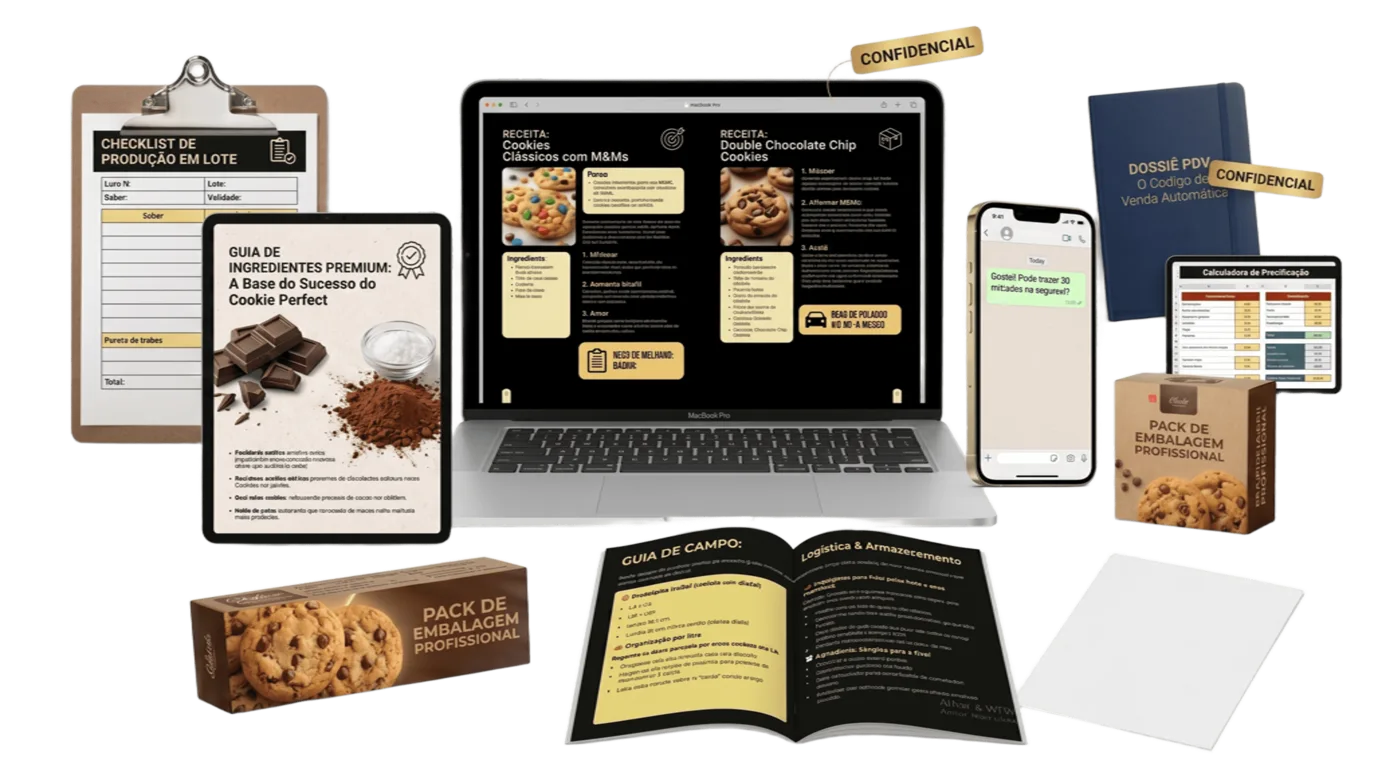
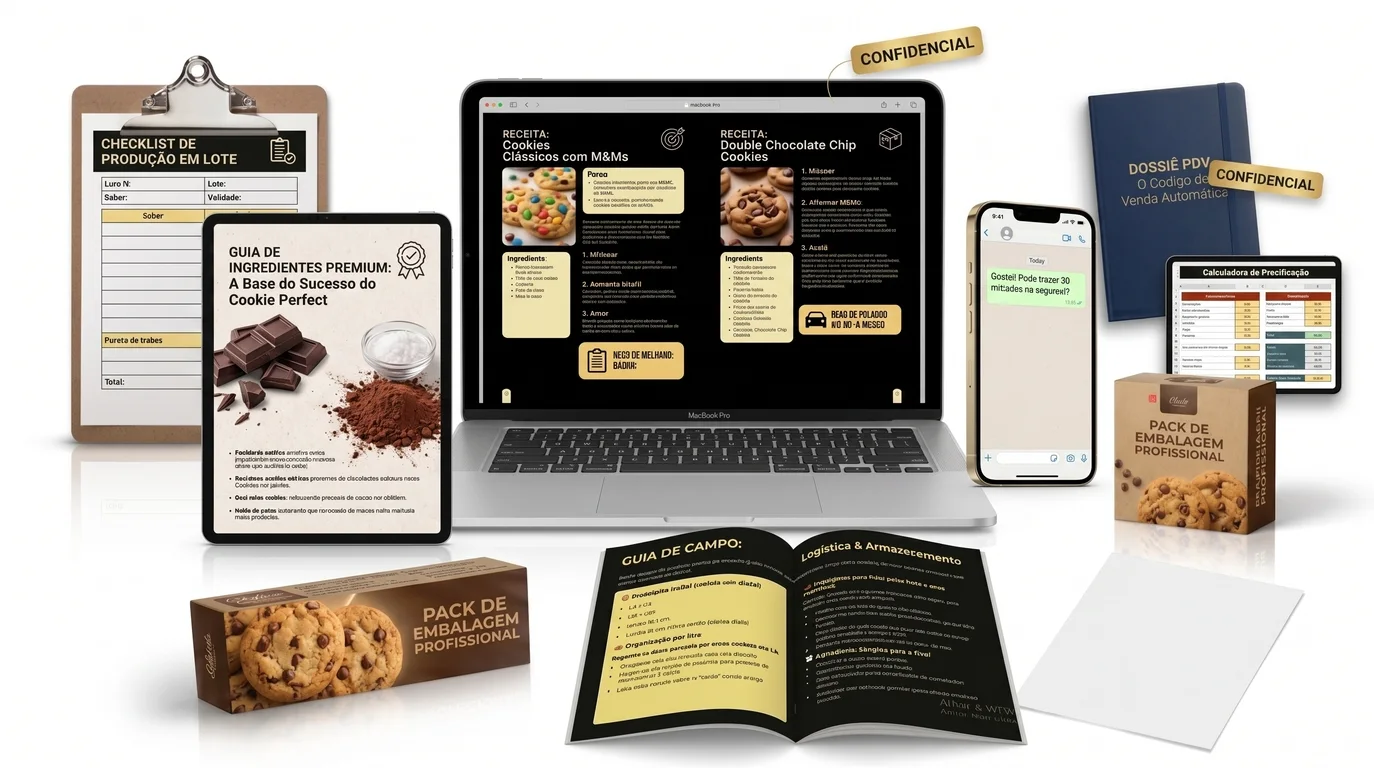
Otimização pv

diff --git a/index.html b/index.html
@@ -1196,6 +1196,24 @@
                             max-width: none;
                         }
                     }
+                    .mockup-guia {
+                        display: block;
+                        margin: 48px auto 0;
+                        width: 100%;
+                        max-width: 720px;
+                        height: auto;
+                        border-radius: 12px;
+                        border: 3px solid var(--col-gold);
+                        box-shadow: 0 12px 30px rgba(0,0,0,0.3);
+                        transition: transform 0.3s ease;
+                    }
+                    @media (max-width: 768px) {
+                        .mockup-guia {
+                            margin: 32px auto 0;
+                            border-width: 2px;
+                            max-width: 100%;
+                        }
+                    }
                 </style>
                 <wistia-player media-id="2xmkb2u75e" aspect="1.7777777777777777"></wistia-player>
             </div>
@@ -1204,7 +1222,7 @@
                 confeiteira que deixou a produção diária exaustiva e passou a vender para pontos fixos:<br>
                 produza hoje, venda por 30 dias e <strong style="color: var(--col-gold);">inicie sua liberdade
                     financeira.</strong></p>
-            <img src="mockupguiarápido (1).webp" alt="Mockup Guia Rápido" style="display: block; margin: 48px auto 0; width: 100%; max-width: 760px; height: auto; border-radius: 12px;">
+            <img src="mockupguiarápido (1).webp" alt="Mockup Guia Rápido" class="mockup-guia" loading="lazy">
         </div>
     </section>
 
@@ -1671,6 +1689,31 @@
                         durante 30 dias.<br>Ninguém fica para trás.</div>
                 </li>
             </ul>
+
+            <style>
+                .mockup-oferta {
+                    display: block;
+                    margin: 80px auto;
+                    width: 100%;
+                    max-width: 720px;
+                    height: auto;
+                    aspect-ratio: 16 / 9;
+                    object-fit: contain;
+                    border-radius: 12px;
+                    border: 3px solid var(--col-gold);
+                    box-shadow: 0 12px 30px rgba(0,0,0,0.3);
+                }
+                @media (max-width: 768px) {
+                    .mockup-oferta {
+                        width: 90%;
+                        max-width: 100%;
+                        max-height: 48vh;
+                        margin: 64px auto;
+                        border-width: 2px;
+                    }
+                }
+            </style>
+            <img src="mockupguiarápido (1).webp" alt="Mockup Guia Rápido Oferta" class="mockup-oferta" loading="lazy">
 
             <h2 class="text-center text-gold" style="margin-top: 60px;">+ 3 BÔNUS EXCLUSIVOS:</h2>
             <div class="bonus-section">